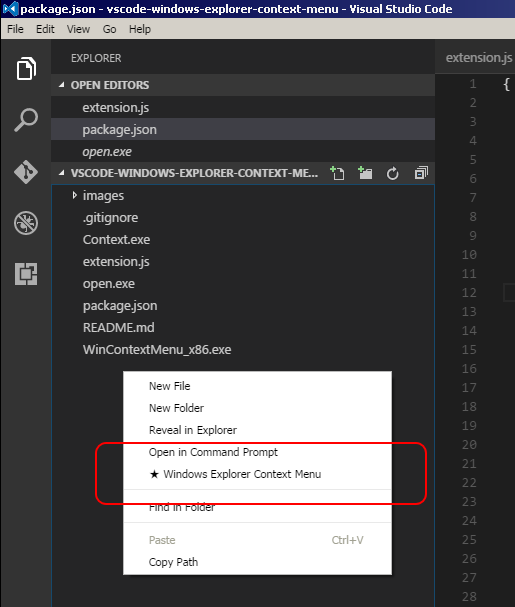
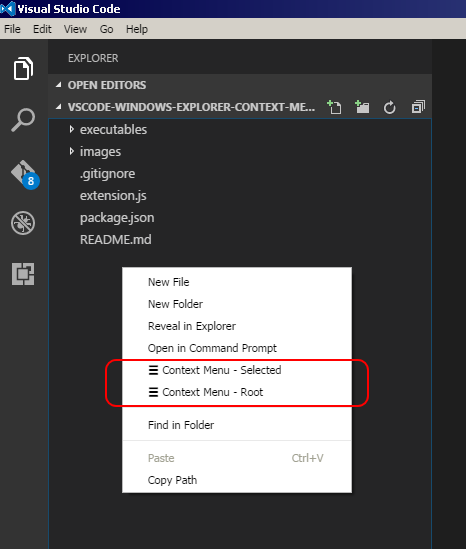
- Added "root" option - Configuration to switch the executable - Improved the readme

Changed region(s): [[0.0, 0.0, 1.0, 1.0], [0.9013, 0.3406, 0.9313, 0.9909]]

diff --git a/extension.js b/extension.js
@@ -2,32 +2,57 @@
 // Import the module and reference it with the alias vscode in your code below
 var vscode = require('vscode');
 
-// this method is called when your extension is activated
-// your extension is activated the very first time the command is executed
-function activate(context) {
-
-	// The command has been defined in the package.json file
-	// Now provide the implementation of the command with  registerCommand
-	// The commandId parameter must match the command field in package.json
-	var disposable = vscode.commands.registerCommand('extension.windowsExplorerContextMenu', function (filePath) {
+function openContextMenu(filePath) {
 
         if(!filePath) {
-            filePath = vscode.workspace.rootPath;
+            return;
         }
-
         filePath = filePath + "";
+
         if(filePath.startsWith("file:///")) {
             filePath = filePath.substring("file:///".length);
         }
         filePath = filePath.replace(/%3A/g, ':');
         //vscode.window.showErrorMessage(filePath);
 
+        var config = vscode.workspace.getConfiguration('windowsExplorerContextMenu');
+        var exeName = config.executable;
+        if(!exeName) {
+            exeName = "WinContextMenu_x86.exe";
+        }
+
         const execFile = require('child_process').execFile;
-        const bat = execFile(__dirname + '\\open.exe',
-            [filePath], (error, stdout, stderr) => {});
+        const bat = execFile(__dirname + '\\executables\\' + exeName,
+            [filePath], (error, stdout, stderr) => {}); 
+}
+
+// this method is called when your extension is activated
+// your extension is activated the very first time the command is executed
+function activate(context) {
+
+    // Open context menu on current file
+	var disposable = vscode.commands.registerCommand('extension.windowsExplorerContextMenuCurrent', function (filePath) {
+        openContextMenu(filePath);
 	});
-	
 	context.subscriptions.push(disposable);
+
+    // Open context menu on selected file/folder
+	disposable = vscode.commands.registerCommand('extension.windowsExplorerContextMenu', function (filePath) {
+
+        if(!filePath) {
+            return;
+        }
+
+        openContextMenu(filePath);
+	});
+	context.subscriptions.push(disposable);
+
+    // Open context menu on root folder
+	disposable = vscode.commands.registerCommand('extension.windowsExplorerContextMenuRoot', function (filePath) {
+        openContextMenu(vscode.workspace.rootPath);
+	});
+	context.subscriptions.push(disposable); 
+
 }
 exports.activate = activate;
 

diff --git a/README.md b/README.md
@@ -1,26 +1,34 @@
 # VSCode - Windows Explorer Context Menu
 
-Visual Studio Code extension that opens the Windows Explorer Context Menu.
-It is triggered by the *"Windows Explorer Context Menu"* option in the 
-context menu of files and folders from the *Explorer* pane.
+Visual Studio Code extension that opens the Windows Explorer context menu. You can use it for many things, one of them being 
+to manage your projects using [TortoiseGit](https://tortoisegit.org/) or [TortoiseSVN](https://tortoisesvn.net/).
 
-Of course it only works on Windows.
+The extension adds some options to VSCode's context menu. In the `Explorer` panel, two options are added :
+
+* *"☰ Context Menu - Selected"*  : Which opens the Windows Explorer context menu for the selected file or folder.
+* *"☰ Context Menu - Root"*  : Which opens the Windows Explorer context menu for the *root* of the project.
+
+Finally, in the context menu of the `Editor` panel, a simple *"☰ Context Menu"* option is added for the file currently open.
 
 ## Installation
 
-Clone the repository or download and extract the [.zip file](https://github.com/electrotype/vscode-windows-explorer-context-menu/archive/master.zip) in your
+Clone the repository or download and extract the [.zip file](https://github.com/electrotype/vscode-windows-explorer-context-menu/archive/master.zip) to your
 *"%USERPROFILE%\.vscode\extensions"* folder. Restart VSCode.
-
-I may publish this extension in the [VSCode Marketplace](https://marketplace.visualstudio.com/VSCode),
-one day, but I first want to use it for a while. Please feel free to report any problem.
 
 By default `WinContextMenu_x86.exe` is used as the executable to open the context menu. It seems to be
 the most reliable open source utility to do this. The drawback is that it always open the context menu near the *top-left*
 of the screen. The `Context.exe` utility opens the menu near the cursor, which is great, but some options on the open menu 
 seem to be problematic, such as "Properties".
 
-You can switch from `WinContextMenu_x86.exe` to `Context.exe` by renaming one of them to `open.exe`, which is the executable 
-actually called in the code.
+You can change the active executable using the "*`windowsExplorerContextMenu.executable`*" [user setting](https://code.visualstudio.com/Docs/customization/userandworkspace). 
+The valid values for this configuration are currently "`WinContextMenu_x86.exe`" (the default) or "`Context.exe`".
+
+Of course this extension only works on Windows.
+
+I may publish it to the [VSCode Marketplace](https://marketplace.visualstudio.com/VSCode)
+one day, but I first want to test it for a while. Please feel free to report any problem.
+
+----------------------
 
 ## Context.exe
 
